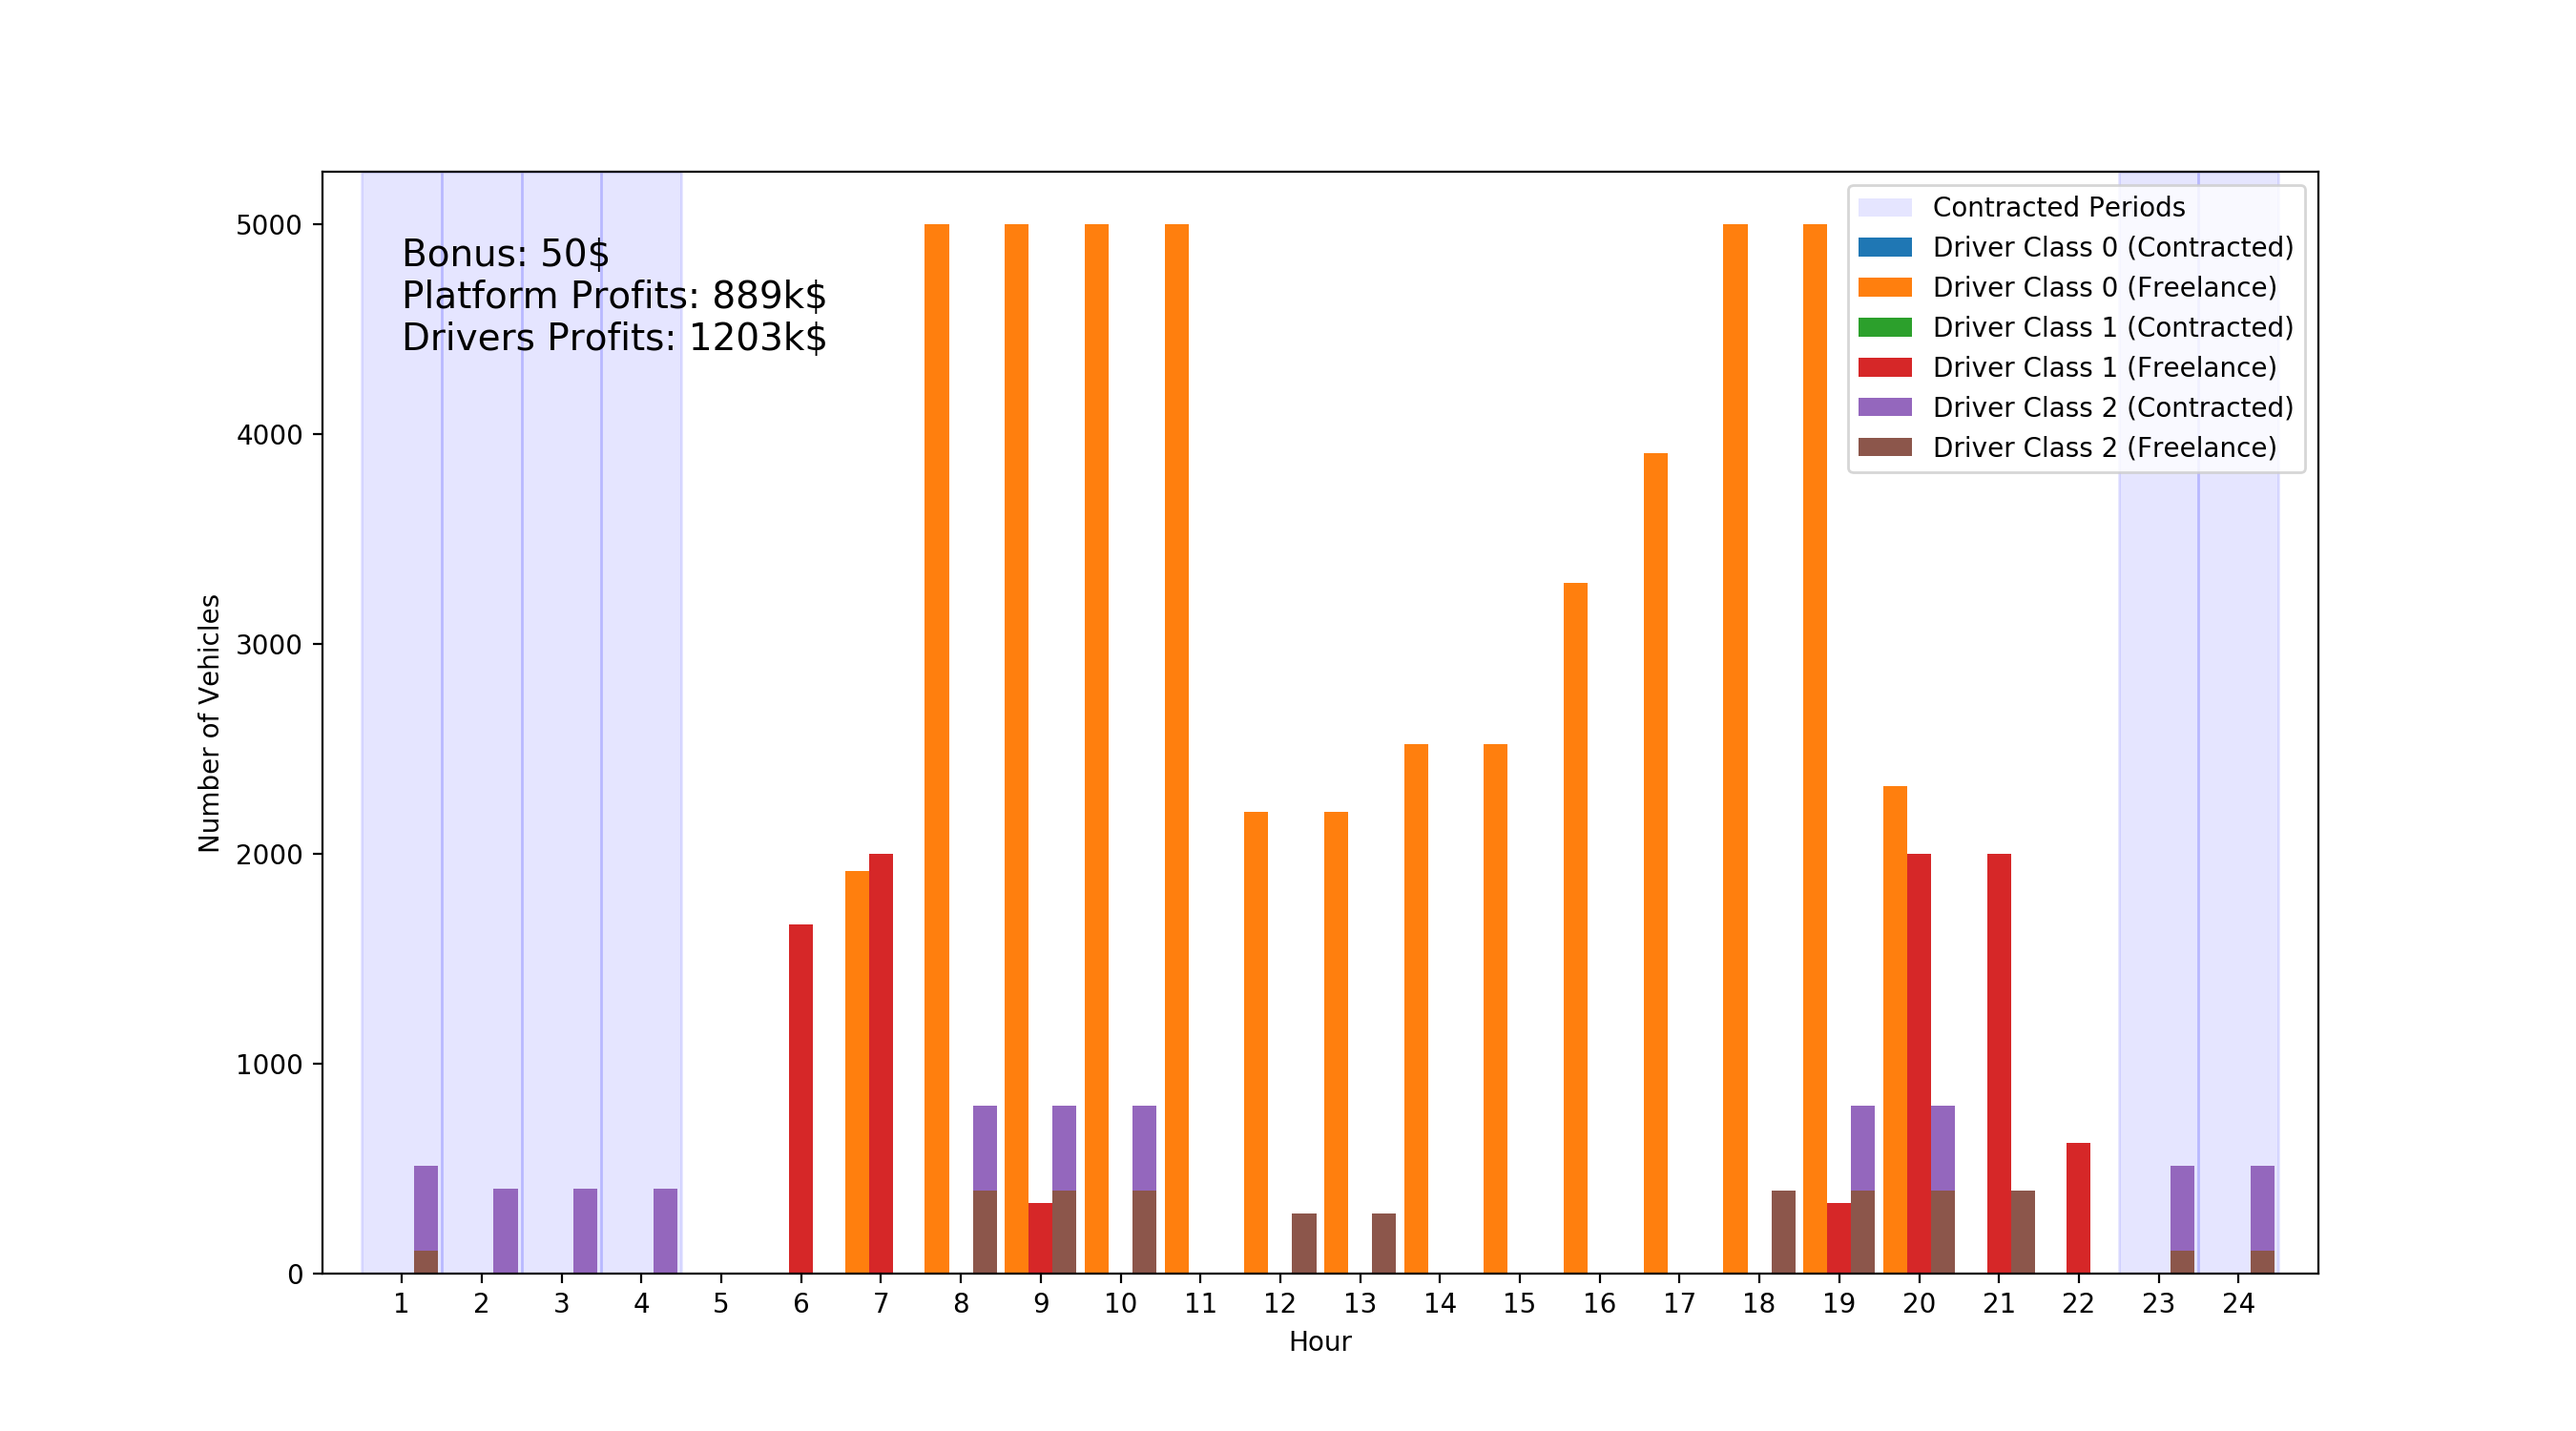
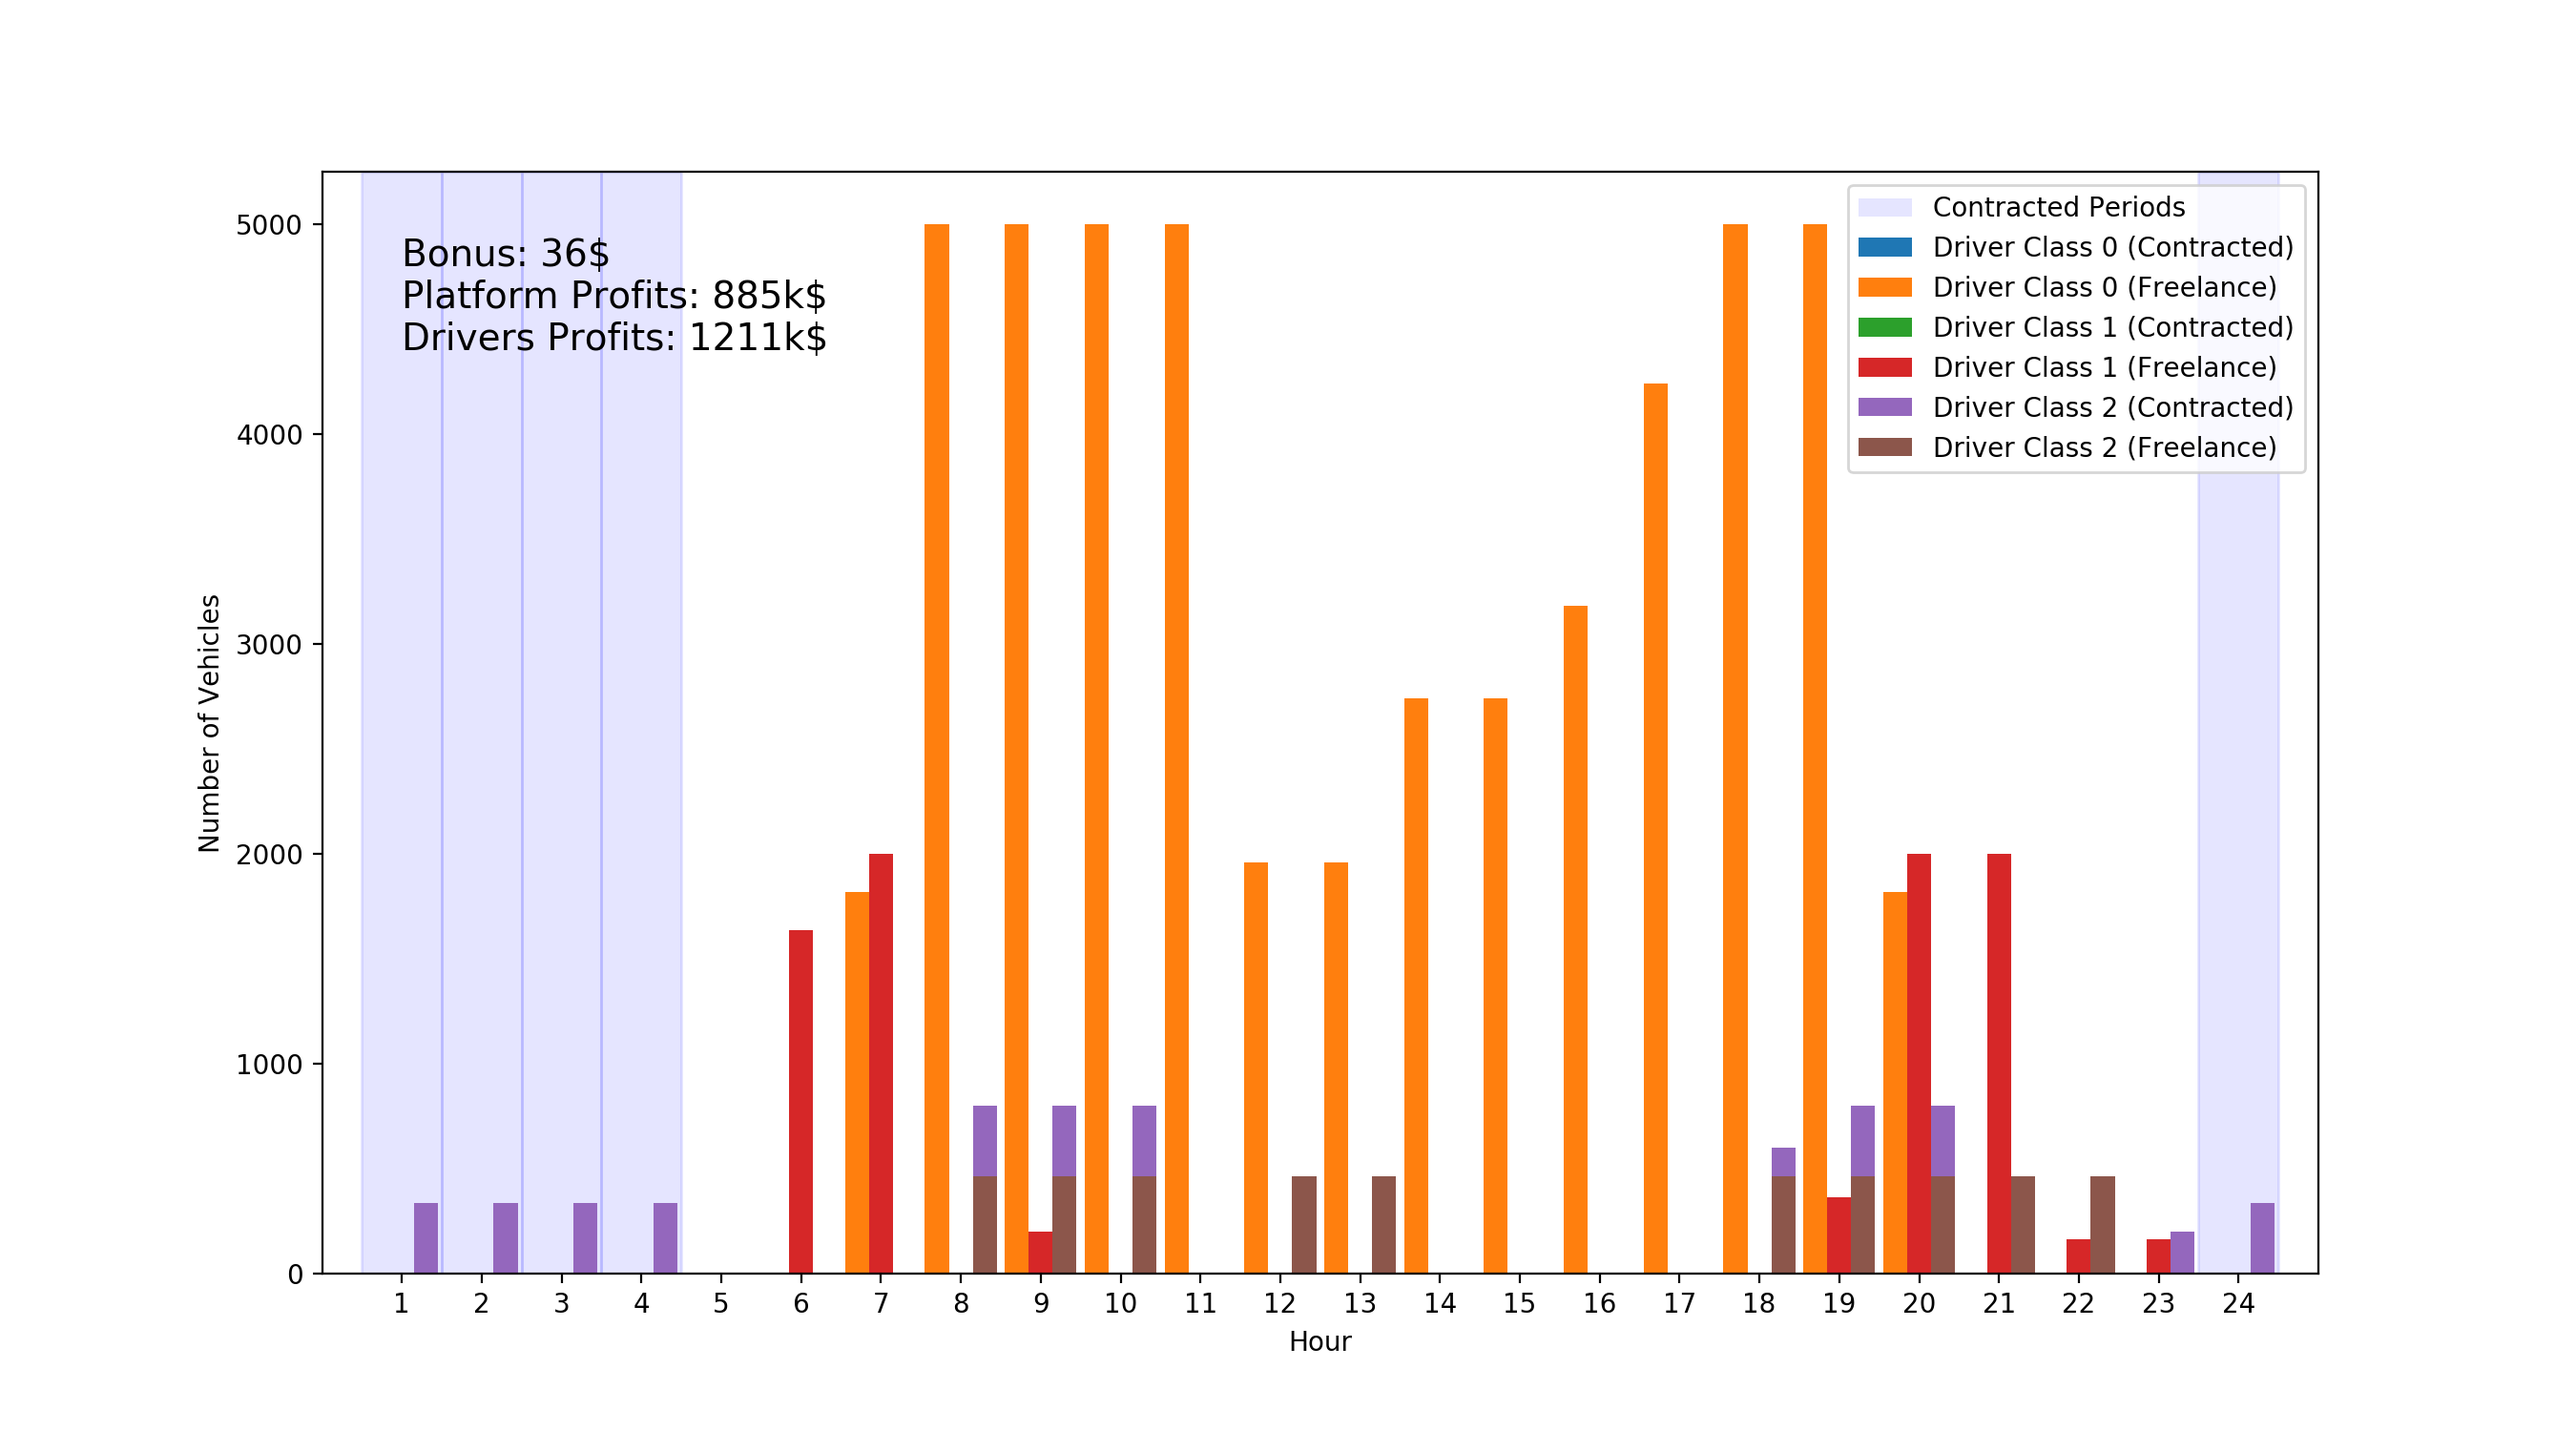
....

diff --git a/model.py b/model.py
@@ -110,6 +110,7 @@ def get_solution_state(path_set_dict, path_flow_list, network,
     # get base demand and realistic demand
     base_demand_list = []
     realistic_demand_list = []
+    demand_elastic_list = []
     total_platform_benefit = 0
     total_passenger_benefit = 0
 
@@ -119,10 +120,17 @@ def get_solution_state(path_set_dict, path_flow_list, network,
         total_passenger_benefit += link.get_link_passenger_total_benefit(link_vehicle_hours[link_id])
         link_realistic_demand, unit_revenue = \
             link.get_link_passenger_demand_and_unit_revenue(link_vehicle_hours[link_id])
+        inc_link_realistic_demand, inc_unit_revenue = \
+            link.get_link_passenger_demand_and_unit_revenue(link_vehicle_hours[link_id] + 1)
+        demand_elastic_list.append((inc_link_realistic_demand - link_realistic_demand) *
+                                   link_vehicle_hours[link_id] / link_realistic_demand)
+
         base_demand_list.append(link_demand)
         total_platform_benefit += \
             link_vehicle_hours[link_id] * unit_revenue * link.platform_charge / (1 - link.platform_charge)
         realistic_demand_list.append(link_realistic_demand)
+
+    solution_state["demand_elasticity"] = demand_elastic_list
     solution_state["base_demand"] = base_demand_list
     solution_state["realized_demand"] = realistic_demand_list
     # solution_state["passenger_benefits"] = total_passenger_benefit
@@ -134,11 +142,15 @@ def get_solution_state(path_set_dict, path_flow_list, network,
     equilibrium_cost_list = []
     drivers_num_list = []
     total_path_profit_list = []
+    total_path_revenue_list = []
+    total_path_cost_list = []
     equilibrium_path_list = []
 
     total_driver_profit = 0
     for driver_id in path_set_dict.keys():
         path_profit_list = []
+        path_revenue_list = []
+        path_cost_list = []
         for path in path_set_dict[driver_id]:
             drivers = network.drivers[driver_id]
 
@@ -150,8 +162,12 @@ def get_solution_state(path_set_dict, path_flow_list, network,
             driver_revenue = np.sum(np.array(path) * np.array(link_revenue_list))
             driver_profit = driver_revenue - driver_cost
             path_profit_list.append(driver_profit)
+            path_revenue_list.append(driver_revenue)
+            path_cost_list.append(driver_cost)
 
         total_path_profit_list.append(path_profit_list)
+        total_path_cost_list.append(path_cost_list)
+        total_path_revenue_list.append(path_revenue_list)
         driver_paths_distribution = path_flow_list[temp_index * paths_num:
                                                    temp_index * paths_num + paths_num].tolist()
 
@@ -195,7 +211,10 @@ def get_solution_state(path_set_dict, path_flow_list, network,
 
     solution_state["contract_profit_ratio"] = contract_profit_ratio_list
     solution_state["path_profit"] = total_path_profit_list
+    solution_state["path_revenue"] = total_path_revenue_list
+    solution_state["path_cost"] = total_path_cost_list
     solution_state["driver_profits"] = total_driver_profit
+    solution_state["platform_revenue"] = total_platform_benefit
     solution_state["platform_profits"] = total_platform_benefit - np.sum(contracted_drivers_num) * bonus
 
     if output_figure:
@@ -238,15 +257,16 @@ def get_solution_state(path_set_dict, path_flow_list, network,
         plt.savefig("data/figure/link_distribution.png")
         plt.close()
 
-        plt.figure(dpi=200, figsize=[10, 6])
+        plt.figure(dpi=200, figsize=[10, 5.5])
         plt.plot(base_demand_list, ".-", label="Base demand")
         plt.plot(realistic_demand_list, ".-", label="Realized demand")
         plt.xlabel("Hour")
         plt.ylabel("Demand (hr)")
-        plt.savefig("data/figure/realized_demand.png")
+
         plt.xlim([-1, 24])
         plt.legend()
         plt.xticks(np.linspace(0, 23, 24).tolist(), [str(int(val + 1)) for val in np.linspace(0, 23, 24).tolist()])
+        plt.savefig("data/figure/realized_demand.png")
         plt.close()
 
         with open("data/figure/solution.json", "w") as temp_file:

diff --git a/main.py b/main.py
@@ -6,7 +6,7 @@ import numpy as np
 
 def main():
     # load the network
-    network = initiate_network(reload=True)
+    network = initiate_network(reload=False)
 
     # plt.figure()
     # for driver_id in network.drivers.keys():
@@ -23,8 +23,17 @@ def main():
     # plt.show()
     # exit()
 
-    contracted_path = [1, 1, 1, 1, 0, 0, 0, 0, 0, 0, 0, 0, 0, 0, 0, 0, 0, 0, 0, 0, 0, 0, 1, 1]
+    contracted_path = [1, 1, 1, 1, 0, 0, 0, 0, 0, 0, 0, 0, 0, 0, 0, 0, 0, 0, 0, 0, 0, 0, 0, 1]
+    # contracted_path = [0, 0, 0, 0, 0, 0, 0, 1, 1, 1, 0, 0, 0, 0, 0, 0, 0, 0, 0, 0, 0, 0, 0, 0]
     base_solution = get_lower_level_solution(network, contracted_path, 0, [0.0, 0.0, 0.0])
+    # exit()
+    # plt.figure()
+    # plt.plot(base_solution["demand_elasticity"], ".-")
+    # plt.xlim([-0.5, 23.5])
+    # plt.ylabel("Ela ($)")
+    # plt.xlabel("Hour")
+    # plt.show()
+    # exit()
 
     # base_demand = base_solution["base_demand"]
     # plt.figure()
@@ -36,20 +45,52 @@ def main():
     # plt.show()
     # exit()
 
-    contracted_fracs = [0, 0, 0.3]
-    bonus_list = [0, 15, 20, 30, 45, 50]
-    # bonus_list = [0]
+    contracted_fracs = [0.0, 0.0, 0.3]
+    # bonus_list = [30]
+    bonus_list = [36, 38, 40, 42]
     platform_benefit_list = []
+    platform_revenue_list = []
+    realized_demand_list = []
+    contracted_driver_fracs = [[], [], []]
 
     for bonus in bonus_list:
         solution = get_lower_level_solution(network, contracted_path, bonus, contracted_fracs)
         platform_benefit_list.append(solution["platform_profits"])
+        platform_revenue_list.append(solution["platform_revenue"])
+        realized_demand_list.append(solution["realized_demand"])
+        ratio_list = solution["contract_profit_ratio"]
+        contracted_driver_fracs[0].append(ratio_list[0])
+        contracted_driver_fracs[1].append(ratio_list[1])
+        contracted_driver_fracs[2].append(ratio_list[2])
 
     plt.figure()
-    plt.plot([0], [base_solution["platform_profits"]], "b.")
-    plt.plot(bonus_list, platform_benefit_list, ".-")
+    for idx in range(len(contracted_driver_fracs)):
+        plt.plot(bonus_list, contracted_driver_fracs[idx], ".-", label="Driver Class " + str(idx))
+
+    plt.xlabel("Bonus ($)")
+    plt.ylabel("Proportion of Contract Driver")
+    plt.legend()
+    plt.show()
+
+    plt.figure()
+    # plt.plot([0], [base_solution["platform_profits"]], "b.")
+    plt.plot(bonus_list, [val / 1000 for val in platform_revenue_list], ".-", label="Platform Revenue")
+    plt.plot(bonus_list, [val / 1000 for val in platform_benefit_list], ".-", label="Platform Profit")
     plt.xlabel("Additional bonus for the contraction ($)")
-    plt.ylabel("Platform benefit ($)")
+    plt.ylabel("Platform benefit (k$)")
+    plt.legend()
+    plt.show()
+
+    plt.figure()
+    plt.plot(base_solution["base_demand"], label="Base demand")
+    for idx in range(len(bonus_list))[::2]:
+        bonus_val = bonus_list[idx]
+        plt.plot(realized_demand_list[idx], ".-", label="Bonus=" + str(bonus_val) + "$")
+    plt.ylabel("Passenger demand (# of trips)")
+    plt.xlabel("Hour")
+    plt.xticks(np.linspace(0, 23, 24), [str(int(val + 1)) for val in np.linspace(0, 23, 24)])
+    plt.xlim([-0.5, 23.5])
+    plt.legend()
     plt.show()
 
 
